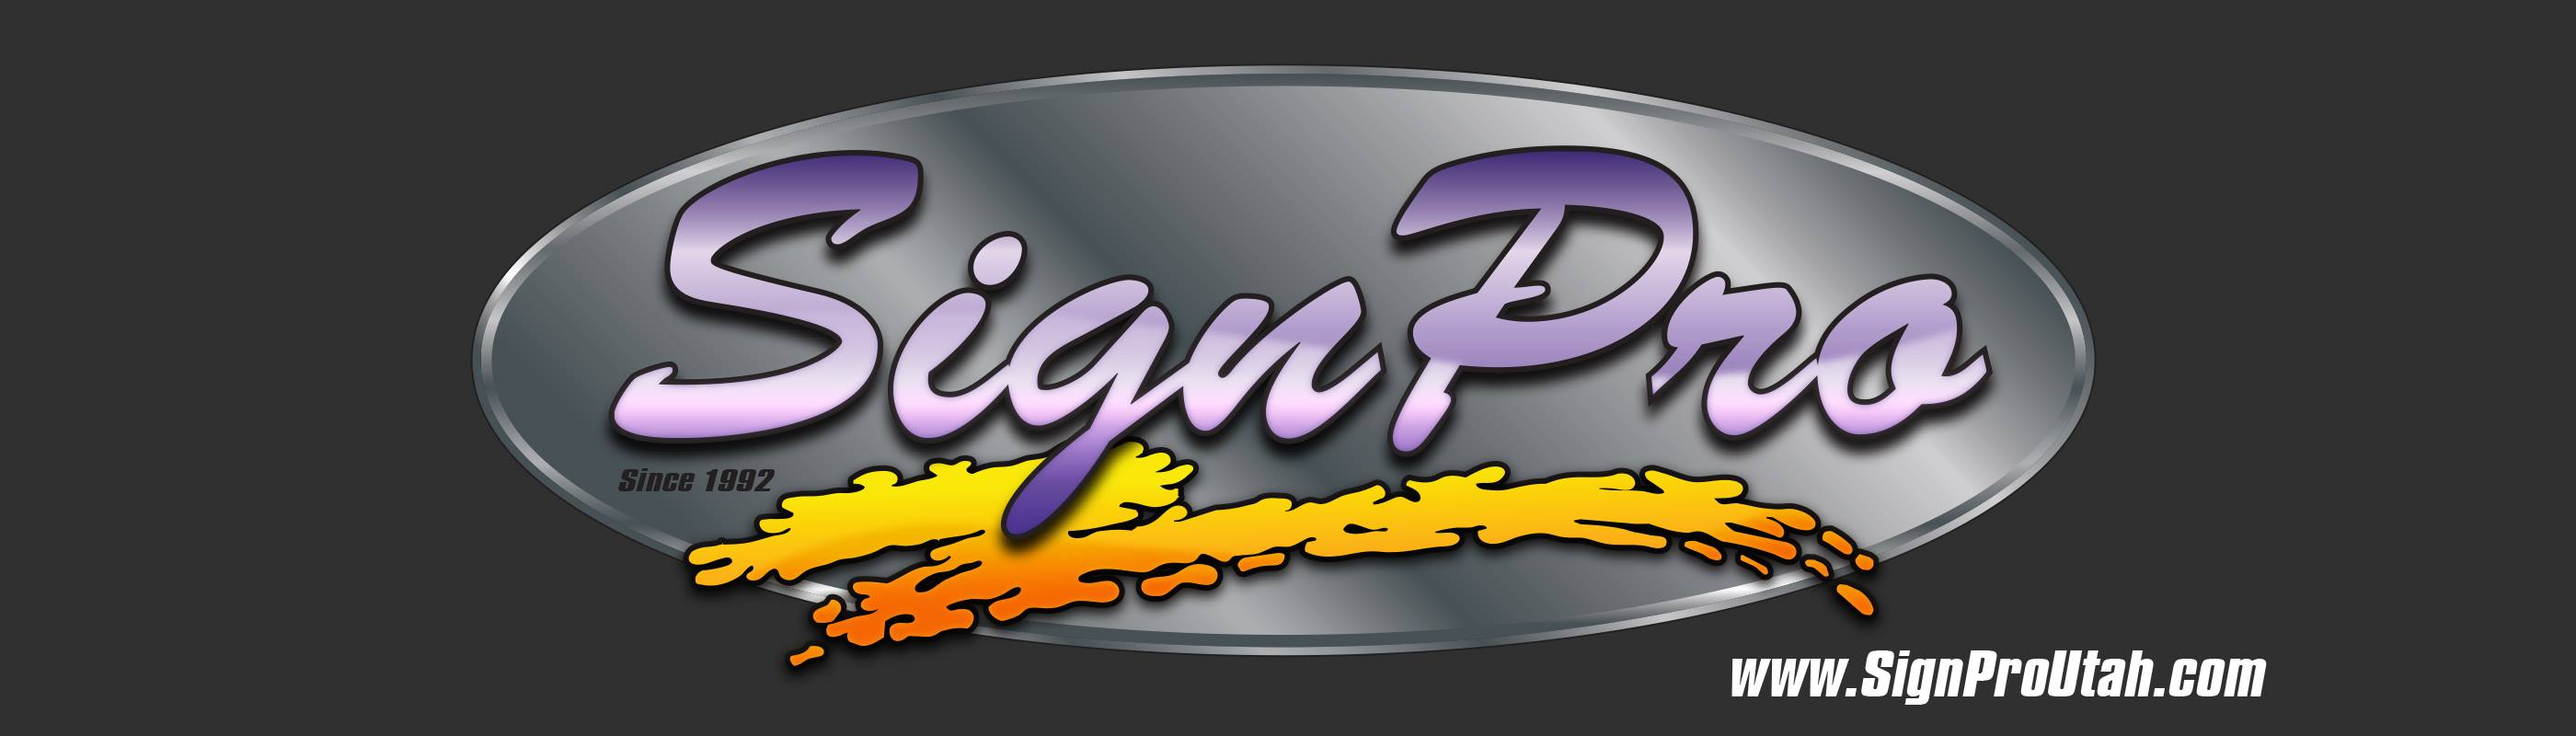
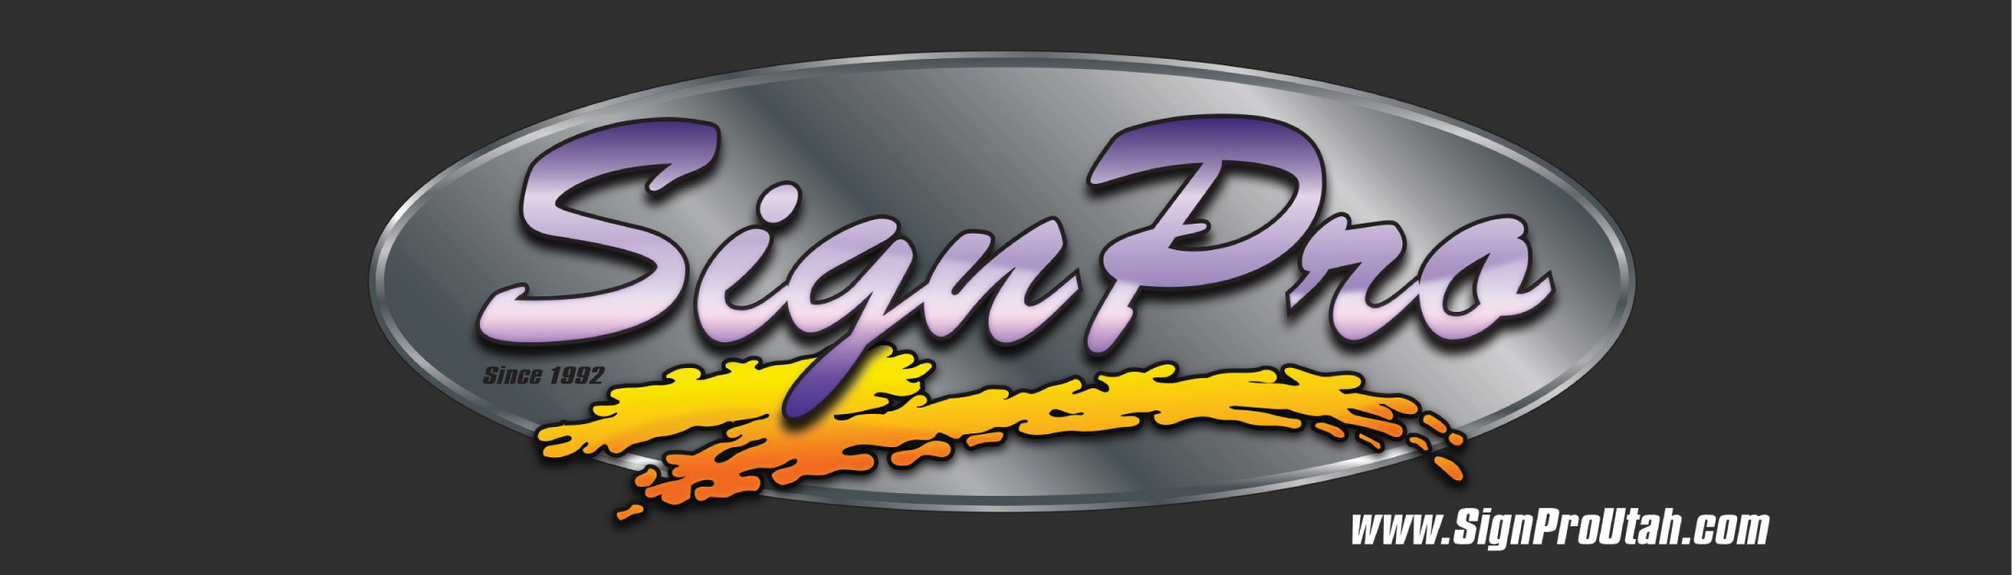
completed project

diff --git a/src/Projects.js b/src/Projects.js
@@ -28,18 +28,27 @@ export default class extends Component{
             <div>
 
                 <h1 className="title">Projects I Have Worked On</h1>
+                <div className='ljd'>
+                <a href="https://github.com/Design1Geek6/about-tyler-morrill"><img className="pic" src="img/ljd.png" alt='lumberjack design Project'/></a>
                 <Project project={this.state.project1.project} 
                 date={this.state.project1.date} 
                 desc={this.state.project1.desc}
                 tech={this.state.project1.tech} />
+                </div>
+                <div className="ttr">
+                <a href="https://codepen.io/DesignGeek16/pen/oqarPL"><img className="pic" src="/img/ttr.png" alt='tic-tac-react project' /></a>
                 <Project project={this.state.project2.project} 
                 date={this.state.project2.date} 
                 desc={this.state.project2.desc}
                 tech={this.state.project2.tech}/>
+                </div>
+                <div className="badge">
+                <a href="https://codepen.io/DesignGeek16/pen/eMgEZj"><img className="pic" src="/img/badge.png" alt="badge project" /></a>
                 <Project project={this.state.project3.project} 
                 date={this.state.project3.date} 
                 desc={this.state.project3.desc}
                 tech={this.state.project3.tech}/>
+                </div>
             </div>
         )
     }

diff --git a/src/JobHistory.js b/src/JobHistory.js
@@ -21,13 +21,13 @@ export default class extends Component{
             <div>
                 <h1 className="title">Work History</h1>
                 <div className="spGroup">
-                <img className="spLogo" src="/img/signpro.jpg" alt="sign pro logo"/>
+                <img className="spLogo" src="/img/signpro.png" alt="sign pro logo"/>
                 <Job work={this.state.job1.work} 
                 date={this.state.job1.date} 
                 desc={this.state.job1.desc} />
                 </div>
-                <div className="jjaSummit">
-                <img className="spLogo" src="/img/signpro.jpg" alt="sign pro logo"/>
+                <div className="jjaGroup">
+                <img className="spLogo" src="/img/jjaIcon.svg" alt="jja logo"/>
                 <Job work={this.state.job2.work} 
                 date={this.state.job2.date} 
                 desc={this.state.job2.desc} />

diff --git a/src/Project.js b/src/Project.js
@@ -5,10 +5,10 @@ export default class extends Component {
    render(){
        return(
                <div className="job">
-                   <div className="project">{this.props.project}</div>
-                   <div className="date">{this.props.date}</div>
-                   <div className="descipt">{this.props.desc}</div>
-                   <div className="tech">{this.props.tech}</div>
+                   <div className="project work">{this.props.project}</div>
+                   <div className="date when">{this.props.date}</div>
+                   <div className="descipt infoDesc">{this.props.desc}</div>
+                   <div className="tech how">{this.props.tech}</div>
                </div>
        )
    }

diff --git a/src/Job.js b/src/Job.js
@@ -5,9 +5,9 @@
     render(){
         return(
                 <div className="job">
-                    <div className="work">{this.props.work}</div>
-                    <div className="date">{this.props.date}</div>
-                    <div className="descipt">{this.props.desc}</div>
+                    <div className="work company">{this.props.work}</div>
+                    <div className="date time">{this.props.date}</div>
+                    <div className="descipt info">{this.props.desc}</div>
                 </div>
         )
     }

diff --git a/src/css/about.css b/src/css/about.css
@@ -13,12 +13,21 @@
     padding: 50px;
 }
 
-.spLogo{
-    padding: 50px;
-    width: 25%;
-    position: center;
+.spGroup, .jjaGroup{
+    display: flex;
+    justify-content: center;
+    align-items: center;
 }
 
-.name{
-    text-align: center;
+.spLogo{
+    padding: 50px;
+}
+
+.company{
+    font-size: 50px;
+    font-family: Oswald;
+}
+
+.time,.info{
+    font-size: 24px;
 }

diff --git a/src/css/me.css b/src/css/me.css
@@ -1,0 +1,24 @@
+.ljd, .ttr, .badge{
+    text-align: center;
+    display: flex;
+    justify-content: center;
+    align-items: center;
+    padding: 30px;
+}
+
+.work{
+    font-size: 50px;
+    font-family: Oswald;
+}
+
+.when{
+    font-size: 32px;
+}
+
+.infoDesc, .how{
+    font-size: 24px;
+}
+
+.pic{
+    padding-right:50px;
+}
